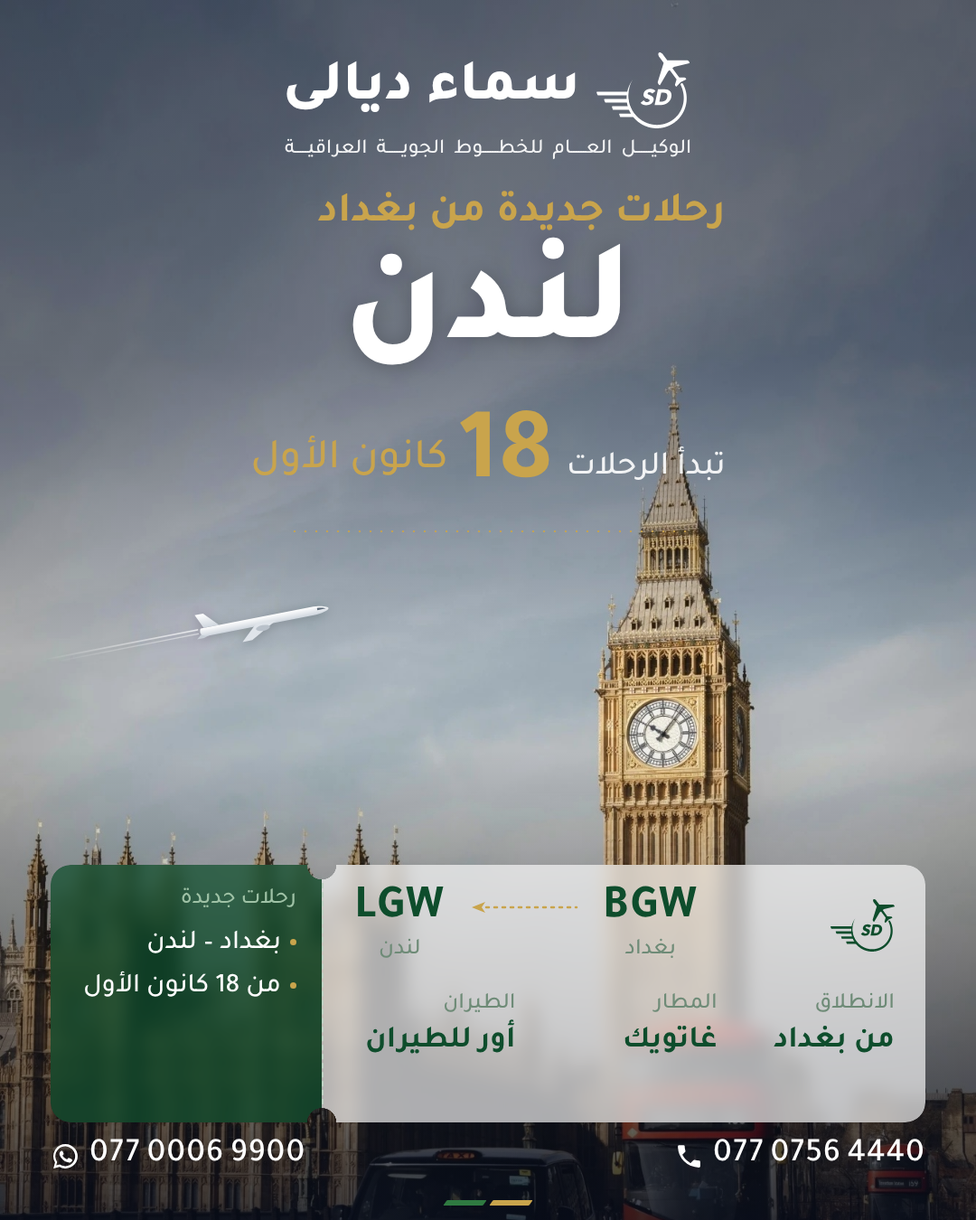
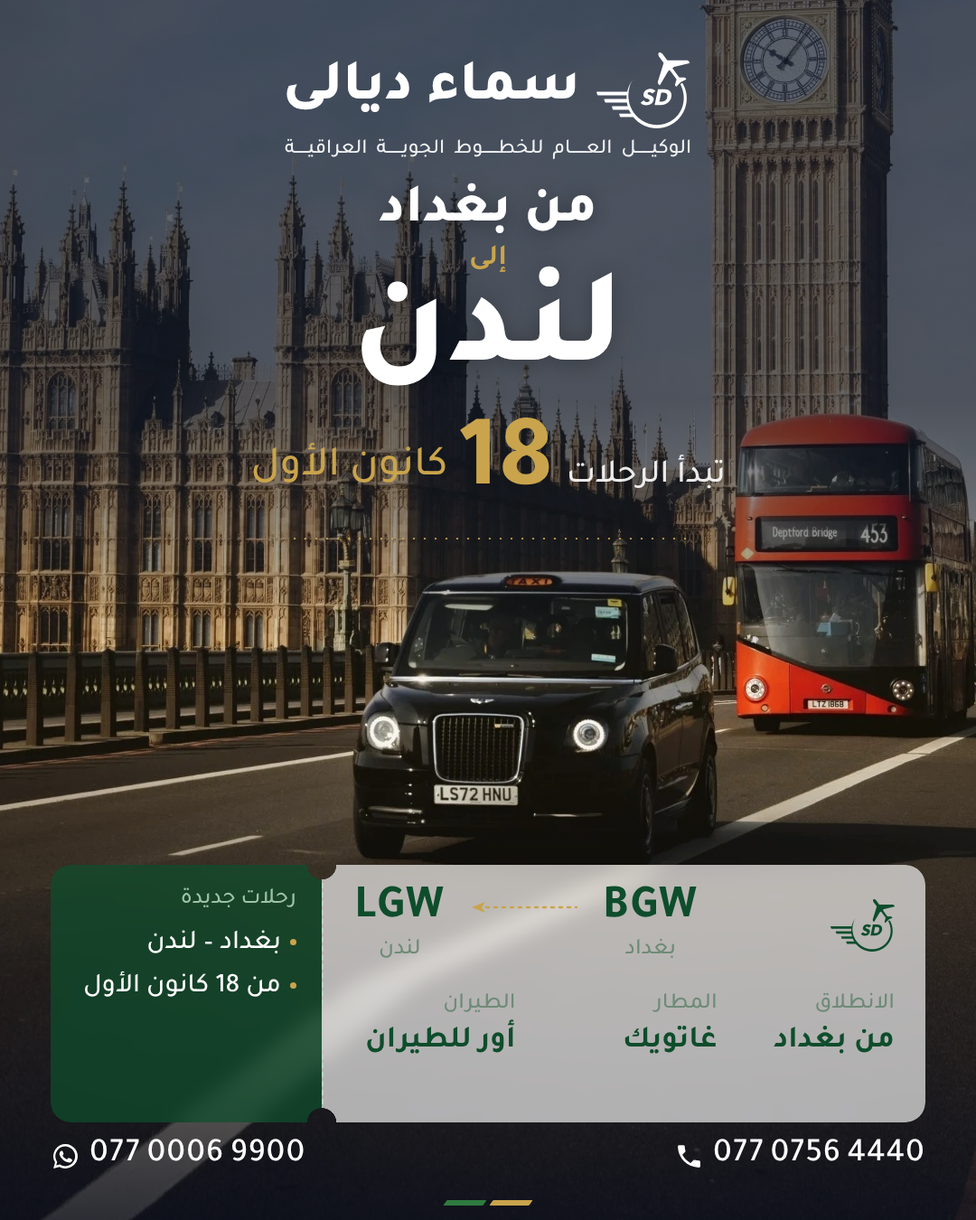
إعلان لندن: التاكسي والباص في الواجهة، ومن بغداد / إلى / لندن، بلا الطائرة المرسومة
Claude-Session: https://claude.ai/code/session_01EprWPUJDuKvYHn821imCPv

diff --git a/09-التصاميم/لندن - نظيف مع بطاقة صعود/إعلان - بيغ بن كاملاً مع طائرة مرسومة.html b/09-التصاميم/لندن - نظيف مع بطاقة صعود/إعلان - بيغ بن كاملاً مع طائرة مرسومة.html
@@ -1,0 +1,202 @@
+<!doctype html>
+<html lang="ar" dir="rtl">
+<head>
+<meta charset="utf-8">
+<title>لندن - بيغ بن</title>
+<style>
+  @font-face{font-family:Tajawal;font-weight:700;src:url("../../07-أدوات/خطوط/tajawal-arabic-800-normal.woff2");unicode-range:U+0600-06FF,U+0750-077F,U+FB50-FDFF,U+FE70-FEFF,U+200C-200E}
+  @font-face{font-family:Tajawal;font-weight:700;src:url("../../07-أدوات/خطوط/tajawal-latin-800-normal.woff2");unicode-range:U+0000-00FF,U+2000-206F}
+  @font-face{font-family:TajawalT;font-weight:400;src:url("../../07-أدوات/خطوط/tajawal-arabic-500-normal.woff2");unicode-range:U+0600-06FF,U+0750-077F,U+FB50-FDFF,U+FE70-FEFF,U+200C-200E}
+  @font-face{font-family:TajawalT;font-weight:400;src:url("../../07-أدوات/خطوط/tajawal-latin-500-normal.woff2");unicode-range:U+0000-00FF,U+2000-206F}
+  @font-face{font-family:TajawalT;font-weight:500;src:url("../../07-أدوات/خطوط/tajawal-arabic-500-normal.woff2");unicode-range:U+0600-06FF,U+0750-077F,U+FB50-FDFF,U+FE70-FEFF,U+200C-200E}
+  @font-face{font-family:TajawalT;font-weight:500;src:url("../../07-أدوات/خطوط/tajawal-latin-500-normal.woff2");unicode-range:U+0000-00FF,U+2000-206F}
+  @font-face{font-family:TajawalT;font-weight:600;src:url("../../07-أدوات/خطوط/tajawal-arabic-700-normal.woff2");unicode-range:U+0600-06FF,U+0750-077F,U+FB50-FDFF,U+FE70-FEFF,U+200C-200E}
+  @font-face{font-family:TajawalT;font-weight:600;src:url("../../07-أدوات/خطوط/tajawal-latin-700-normal.woff2");unicode-range:U+0000-00FF,U+2000-206F}
+  @font-face{font-family:TajawalT;font-weight:700;src:url("../../07-أدوات/خطوط/tajawal-arabic-800-normal.woff2");unicode-range:U+0600-06FF,U+0750-077F,U+FB50-FDFF,U+FE70-FEFF,U+200C-200E}
+  @font-face{font-family:TajawalT;font-weight:700;src:url("../../07-أدوات/خطوط/tajawal-latin-800-normal.woff2");unicode-range:U+0000-00FF,U+2000-206F}
+
+
+  :root{
+    --kick-dx:37.1px;
+    --green:#0E4D2C; --mid:#2F7A41; --gold:#C9A44C; --light:#E9F2EA; --white:#FFFFFF;
+    --ink:#FFFFFF;          /* single logo/text colour, chosen per background */
+    --accent:var(--gold);   /* price colour */
+    --img-y:0px;
+    --lock-dx:-1.9px; --name-dy:4px; --tag-size:23px; --tag-ws:0.72px; --tag-dx:0.4px;   /* header fine-tuning */
+    /* --img-y: vertical position of the photo (1080 x 1620 after scaling) */
+  }
+  *{margin:0;padding:0;box-sizing:border-box}
+  html,body{width:1080px;height:1350px;overflow:hidden;background:#0d2a3a}
+  .ad{position:relative;width:1080px;height:1350px;overflow:hidden;color:var(--ink)}
+  .photo{position:absolute;inset:0;background:url("../../08-الصور/وجهات/لندن - بيغ بن والتاكسي والباص (سماء ممدودة للإعلان).jpg") 0 0/1080px auto no-repeat}
+  .shade-top{position:absolute;inset:0 0 auto 0;height:720px;background:linear-gradient(180deg,rgba(10,20,40,.50) 0%,rgba(10,20,40,.40) 55%,rgba(10,20,40,.18) 80%,rgba(10,20,40,0) 100%)}
+  .collage{position:absolute;inset:0;display:block}
+  .shade-bot{position:absolute;inset:auto 0 0 0;height:520px;
+             background:linear-gradient(0deg,rgba(4,10,26,.78) 0%,rgba(4,10,26,.35) 55%,rgba(4,10,26,0) 100%)}
+
+  /* ---- header ---- */
+  .head{position:absolute;top:58px;left:0;right:0;display:flex;flex-direction:column;align-items:center}
+  .brand{display:inline-flex;flex-direction:column;align-items:stretch}
+  .lockup{display:flex;align-items:center;justify-content:center;gap:18px}
+  .lockup img{height:84px;display:block}
+  .lockup{transform:translateX(var(--lock-dx))}
+  .lockup .name{font-family:Tajawal;font-weight:700;font-size:64px;line-height:1;padding-bottom:8px;white-space:nowrap;
+                transform:translateY(var(--name-dy))}
+  /* tagline keeps 20px; it is stretched with kashida (+ a hair of word-spacing) to the ink width of logo + name */
+  .tag{margin:12px auto 0;width:max-content;font-family:TajawalT;font-weight:500;font-size:var(--tag-size);line-height:1.2;
+       white-space:nowrap;text-align:center;opacity:.92;word-spacing:var(--tag-ws);transform:translateX(var(--tag-dx))}
+
+  .dest{margin-top:30px;font-family:Tajawal;font-weight:700;font-size:139px;line-height:1.05;
+        text-shadow:0 2px 24px rgba(0,0,0,.25)}
+  .price{margin-top:2px;display:flex;align-items:baseline;gap:14px;color:var(--accent)}
+  .price .from{font-family:TajawalT;font-weight:500;font-size:28px;color:var(--ink);opacity:.9;align-self:center;padding-top:14px}
+  .price .num{font-family:TajawalT;font-weight:600;font-size:113px;line-height:1;direction:ltr;letter-spacing:1px}
+  .price .cur{font-family:TajawalT;font-weight:500;font-size:35px;position:relative;top:-10px}
+  .airline{margin-top:10px;font-family:TajawalT;font-weight:500;font-size:26px;opacity:.92;display:flex;align-items:center;gap:14px;white-space:nowrap}
+  .airline::before,.airline::after{content:"";width:46px;height:1px;background:currentColor;opacity:.6}
+  .kicker{width:max-content;transform:translateX(var(--kick-dx,212px));margin-top:44px;font-family:TajawalT;font-weight:500;font-size:35px;line-height:1.2;color:var(--gold);letter-spacing:.5px}
+  .kicker + .dest{margin-top:10px}
+  /* boarding pass at the bottom */
+  .pass{position:absolute;left:56px;right:56px;bottom:108px;height:226px;display:flex;direction:rtl;
+        filter:none}
+  .pass .main{flex:1;background:rgba(255,255,255,.66);backdrop-filter:blur(10px) saturate(1.1);-webkit-backdrop-filter:blur(10px);border-radius:0 22px 22px 0;padding:24px 34px 22px;color:var(--green);position:relative;border-left:2.5px dashed #BFD2C4;
+     -webkit-mask:radial-gradient(circle at 0 0,transparent 16px,#000 16.5px) top/100% 51% no-repeat,radial-gradient(circle at 0 100%,transparent 16px,#000 16.5px) bottom/100% 51% no-repeat}
+  .pass .stubx{width:300px;background:rgba(14,77,44,.72);backdrop-filter:blur(10px);-webkit-backdrop-filter:blur(10px);border-radius:22px 0 0 22px;padding:24px 28px;color:#FFFFFF;position:relative;
+     -webkit-mask:radial-gradient(circle at 100% 0,transparent 16px,#000 16.5px) top/100% 51% no-repeat,radial-gradient(circle at 100% 100%,transparent 16px,#000 16.5px) bottom/100% 51% no-repeat}
+  .pass .cut{width:0;position:relative;border-right:2.5px dashed #BFD2C4;background:#fff}
+  .pass .cut::before,.pass .cut::after{content:"";position:absolute;right:-17px;width:32px;height:32px;border-radius:50%;background:#2a2a35}
+  .pass .cut::before{top:-16px} .pass .cut::after{bottom:-16px}
+  .row1{display:flex;align-items:center;justify-content:space-between}
+  .bplogo{height:58px;display:block}
+  .bp{display:inline-flex;align-items:center;gap:8px;background:var(--green);color:#fff;border-radius:999px;padding:6px 16px 8px;font-family:TajawalT;font-weight:500;font-size:21px}
+  .bp svg{width:17px;height:17px;color:var(--gold)}
+  .route{display:flex;align-items:flex-start;gap:16px;direction:ltr}
+  .route .code{font-family:TajawalT;font-weight:600;font-size:45px;letter-spacing:2px;line-height:1}
+  .route .city{font-family:TajawalT;font-size:19px;color:#6E8B77;margin-top:4px;text-align:center;direction:rtl}
+  .route svg{margin-top:13px;width:120px;height:14px}
+  .fields{margin-top:26px;display:grid;grid-template-columns:1fr 1.15fr 1fr;gap:18px}
+  .f .k{font-family:TajawalT;font-size:19px;color:#6E8B77;margin-bottom:4px}
+  .f .v .sub{display:block;font-weight:500;font-size:21px;color:#3E6B4C}
+  .f .v{font-family:TajawalT;font-weight:600;font-size:26px;line-height:1.3;white-space:nowrap}
+  .stubx .k{font-family:TajawalT;font-size:19px;color:#9FC2A6;margin-bottom:10px}
+  .stubx ul{list-style:none;font-family:TajawalT;font-weight:500;font-size:22px;line-height:1.55}
+  .stubx li::before{content:"";display:inline-block;width:7px;height:7px;border-radius:50%;background:var(--gold);margin-left:10px;vertical-align:middle}
+  .perf{margin-top:20px;width:440px;height:2px;
+        background-image:radial-gradient(circle,rgba(201,164,76,.85) 1.2px,transparent 1.6px);
+        background-size:12px 2px;background-repeat:repeat-x}
+
+  /* ---- footer ---- */
+  .foot{position:absolute;left:56px;right:56px;bottom:46px;color:#fff;display:flex;align-items:flex-end;justify-content:space-between}
+  .dur .from{font-family:TajawalT;font-weight:500;font-size:22px;opacity:.85;display:block;margin-bottom:2px}
+  .dur .val{font-family:TajawalT;font-weight:600;font-size:38px;line-height:1.2;white-space:nowrap}
+  .stripes{position:absolute;left:50%;bottom:16px;transform:translateX(-50%);display:flex;gap:7px}
+  .stripes i{display:block;width:44px;height:6px;transform:skewX(-35deg);border-radius:1px}
+  .stripes i:nth-child(1){background:var(--gold)} .stripes i:nth-child(2){background:var(--mid)}
+  .wa{display:flex;align-items:center;gap:10px;direction:ltr;padding-bottom:3px}
+  .wa .ph{word-spacing:-3px}
+  .wa svg{width:28px;height:28px;flex:none}
+  .wa span{font-family:TajawalT;font-weight:500;font-size:30px;letter-spacing:1px}
+  .dest{font-size:160px !important;line-height:1.05 !important;margin-top:0 !important}
+  .kicker{margin-top:30px !important;font-weight:600 !important}
+  .price{margin-top:34px !important}
+  /* bigger text throughout (header lockup and 20px agent line stay as measured) */
+  .kicker{font-size:47px !important}
+  .price .from{font-size:37px !important;padding-top:18px !important}
+  .price .cur{font-size:47px !important}
+  .pass{height:262px !important}
+  .route{gap:12px !important}
+  .route .code{font-size:52px !important}
+  .route .city{font-size:25px !important}
+  .route svg{width:78px !important;margin-top:16px !important}
+  .fields{margin-top:30px !important}
+  .f .k{font-size:25px !important}
+  .f .v{font-size:34px !important}
+  .stubx .k{font-size:25px !important}
+  .stubx ul{font-size:30px !important;line-height:1.6 !important}
+  .wa span{font-size:37px !important}
+  .wa svg{width:33px !important;height:33px !important}
+  .tag{margin-top:10px !important}
+  .price{margin-top:20px !important}
+  .pass{height:285px !important}
+  .plane{position:absolute;left:40px;top:650px;width:330px;height:auto;filter:drop-shadow(0 2px 6px rgba(0,0,0,.18))}
+</style>
+</head>
+<body>
+<div class="ad">
+  <div class="photo"></div>
+  <div class="shade-top"></div>
+
+  <div class="shade-bot"></div>
+  <svg class="plane" viewBox="0 0 420 120" aria-hidden="true">
+    <defs><linearGradient id="trail" x1="0" y1="0" x2="1" y2="0"><stop offset="0" stop-color="#fff" stop-opacity="0"/><stop offset="1" stop-color="#fff" stop-opacity=".75"/></linearGradient>
+      <linearGradient id="body" x1="0" y1="0" x2="0" y2="1"><stop offset="0" stop-color="#ffffff"/><stop offset="1" stop-color="#cfd6de"/></linearGradient></defs>
+    <g transform="rotate(-11 210 60)">
+      <rect x="0" y="62" width="228" height="2.2" rx="1" fill="url(#trail)"/>
+      <rect x="20" y="68" width="208" height="1.6" rx="1" fill="url(#trail)" opacity=".7"/>
+      <g transform="translate(222 40)">
+        <path d="M14 22 L5 2 L17 2 L36 22 Z" fill="url(#body)"/>
+        <path d="M12 28 L2 36 L12 36 L32 30 Z" fill="#c7ced6"/>
+        <path d="M10 22 H168 C182 22 192 26 192 28 C192 31 182 34 168 34 H18 C12 34 8 31 8 28 C8 25 9 22 10 22 Z" fill="url(#body)"/>
+        <path d="M88 30 L64 52 L78 52 L116 31 Z" fill="#dfe4ea"/>
+        <ellipse cx="96" cy="38" rx="10" ry="4" fill="#b9c1ca"/>
+        <path d="M176 25 C182 25.5 186 26.5 188 28 L176 28 Z" fill="#5d6b7a"/>
+      </g>
+    </g>
+  </svg>
+
+
+  <div class="head">
+    <div class="brand" id="brand">
+      <div class="lockup" id="lockup">
+        <img src="../../01-الشعار/أحادي بلا الاسم الصغير/الرمز - أبيض.svg" alt="">
+        <div class="name">سماء ديالى</div>
+      </div>
+      <div class="tag" id="tag">الوكيــــــل العــــــام للخطــــــوط الجويــــــة العراقيـــــة</div>
+    </div>
+    <div class="kicker">رحلات جديدة من بغداد</div>
+    <div class="dest">لندن</div>
+    <div class="price">
+      <span class="from">تبدأ الرحلات</span>
+      <span class="num">18</span>
+      <span class="cur">كانون الأول</span>
+    </div>
+    <div class="perf"></div>
+  </div>
+
+  <div class="foot">
+    <div class="wa"><svg viewBox="0 0 24 24" fill="#fff" aria-hidden="true"><path d="M6.6 10.8a15.1 15.1 0 0 0 6.6 6.6l2.2-2.2a1 1 0 0 1 1-.25 11.4 11.4 0 0 0 3.6.57 1 1 0 0 1 1 1V20a1 1 0 0 1-1 1A17 17 0 0 1 3 4a1 1 0 0 1 1-1h3.5a1 1 0 0 1 1 1c0 1.25.2 2.45.57 3.57a1 1 0 0 1-.25 1z"/></svg><span class="ph">077 0756 4440</span></div>
+    <div class="wa">
+      <svg viewBox="0 0 32 32" fill="#fff" aria-hidden="true"><path d="M16 3a13 13 0 0 0-11.2 19.6L3 29l6.6-1.7A13 13 0 1 0 16 3zm0 23.6c-2 0-4-.5-5.7-1.6l-.4-.2-3.9 1 1-3.8-.3-.4A10.6 10.6 0 1 1 16 26.6zm5.8-7.9c-.3-.2-1.9-.9-2.2-1-.3-.1-.5-.2-.7.2l-1 1.2c-.2.2-.4.2-.7.1a8.7 8.7 0 0 1-4.3-3.8c-.3-.6.3-.5 1-1.7.1-.2 0-.4 0-.6l-1-2.4c-.3-.6-.5-.5-.7-.5h-.6c-.2 0-.6.1-.9.4-.3.3-1.2 1.1-1.2 2.8s1.2 3.2 1.4 3.5c.2.2 2.4 3.6 5.8 5 2.1.9 3 1 4 .8.7-.1 1.9-.8 2.2-1.6.3-.8.3-1.4.2-1.6-.1-.1-.3-.2-.6-.3z"/></svg>
+      <span class="ph">077 0006 9900</span>
+    </div>
+  </div>
+  <div class="pass">
+    <div class="main">
+      <div class="row1">
+        <img class="bplogo" src="../../01-الشعار/أحادي بلا الاسم الصغير/الرمز - أخضر.svg" alt="">
+        <div class="route">
+          <div><div class="code">LGW</div><div class="city">لندن</div></div>
+          <svg viewBox="0 0 120 14" style="width:150px !important"><line x1="18" y1="7" x2="118" y2="7" stroke="#C9A44C" stroke-width="2.5" stroke-dasharray="3 6" stroke-linecap="round"/><path d="M2 7 L17 1 L13 7 L17 13 Z" fill="#C9A44C"/></svg>
+          <div><div class="code">BGW</div><div class="city">بغداد</div></div>
+        </div>
+      </div>
+      <div class="fields">
+        <div class="f"><div class="k">الانطلاق</div><div class="v">من بغداد</div></div>
+        <div class="f"><div class="k">المطار</div><div class="v">غاتويك</div></div>
+        <div class="f"><div class="k">الطيران</div><div class="v">أور للطيران</div></div>
+      </div>
+    </div>
+    <div class="stubx">
+      <div class="k">رحلات جديدة</div>
+      <ul><li>بغداد – لندن</li><li>من 18 كانون الأول</li></ul>
+    </div>
+  </div>
+  <div class="stripes"><i></i><i></i></div>
+</div>
+<script>
+document.fonts.ready.then(()=>{const t=document.getElementById('tag'),l=document.getElementById('lockup');
+ t.style.transform='none'; let ws=0; for(let i=0;i<60;i++){const d=l.getBoundingClientRect().width-t.getBoundingClientRect().width; if(Math.abs(d)<0.5)break; ws+=d/5*0.9; t.style.wordSpacing=ws+'px';}
+ document.body.dataset.ready='1'});
+</script>
+</body>
+</html>

diff --git a/09-التصاميم/لندن - نظيف مع بطاقة صعود/إعلان.html b/09-التصاميم/لندن - نظيف مع بطاقة صعود/إعلان.html
@@ -28,8 +28,8 @@
   *{margin:0;padding:0;box-sizing:border-box}
   html,body{width:1080px;height:1350px;overflow:hidden;background:#0d2a3a}
   .ad{position:relative;width:1080px;height:1350px;overflow:hidden;color:var(--ink)}
-  .photo{position:absolute;inset:0;background:url("../../08-الصور/وجهات/لندن - بيغ بن والتاكسي والباص (سماء ممدودة للإعلان).jpg") 0 0/1080px auto no-repeat}
-  .shade-top{position:absolute;inset:0 0 auto 0;height:720px;background:linear-gradient(180deg,rgba(10,20,40,.50) 0%,rgba(10,20,40,.40) 55%,rgba(10,20,40,.18) 80%,rgba(10,20,40,0) 100%)}
+  .photo{position:absolute;inset:0;background:url("../../08-الصور/وجهات/لندن - بيغ بن والتاكسي والباص (طريق ممدود للإعلان).jpg") -38px -752px/1335px auto no-repeat}
+  .shade-top{position:absolute;inset:0 0 auto 0;height:760px;background:linear-gradient(180deg,rgba(10,20,40,.66) 0%,rgba(10,20,40,.62) 58%,rgba(10,20,40,.42) 76%,rgba(10,20,40,0) 100%)}
   .collage{position:absolute;inset:0;display:block}
   .shade-bot{position:absolute;inset:auto 0 0 0;height:520px;
              background:linear-gradient(0deg,rgba(4,10,26,.78) 0%,rgba(4,10,26,.35) 55%,rgba(4,10,26,0) 100%)}
@@ -119,6 +119,10 @@
   .price{margin-top:20px !important}
   .pass{height:285px !important}
   .plane{position:absolute;left:40px;top:650px;width:330px;height:auto;filter:drop-shadow(0 2px 6px rgba(0,0,0,.18))}
+  .kicker{transform:none !important;font-size:32px !important;margin-top:2px !important;line-height:1.1 !important}
+  .fromc{margin-top:22px;font-family:Tajawal;font-weight:700;font-size:60px;line-height:1.1;text-shadow:0 2px 20px rgba(0,0,0,.3)}
+  .dest{font-size:150px !important;margin-top:-6px !important}
+  .price{margin-top:6px !important}
 </style>
 </head>
 <body>
@@ -127,22 +131,6 @@
   <div class="shade-top"></div>
 
   <div class="shade-bot"></div>
-  <svg class="plane" viewBox="0 0 420 120" aria-hidden="true">
-    <defs><linearGradient id="trail" x1="0" y1="0" x2="1" y2="0"><stop offset="0" stop-color="#fff" stop-opacity="0"/><stop offset="1" stop-color="#fff" stop-opacity=".75"/></linearGradient>
-      <linearGradient id="body" x1="0" y1="0" x2="0" y2="1"><stop offset="0" stop-color="#ffffff"/><stop offset="1" stop-color="#cfd6de"/></linearGradient></defs>
-    <g transform="rotate(-11 210 60)">
-      <rect x="0" y="62" width="228" height="2.2" rx="1" fill="url(#trail)"/>
-      <rect x="20" y="68" width="208" height="1.6" rx="1" fill="url(#trail)" opacity=".7"/>
-      <g transform="translate(222 40)">
-        <path d="M14 22 L5 2 L17 2 L36 22 Z" fill="url(#body)"/>
-        <path d="M12 28 L2 36 L12 36 L32 30 Z" fill="#c7ced6"/>
-        <path d="M10 22 H168 C182 22 192 26 192 28 C192 31 182 34 168 34 H18 C12 34 8 31 8 28 C8 25 9 22 10 22 Z" fill="url(#body)"/>
-        <path d="M88 30 L64 52 L78 52 L116 31 Z" fill="#dfe4ea"/>
-        <ellipse cx="96" cy="38" rx="10" ry="4" fill="#b9c1ca"/>
-        <path d="M176 25 C182 25.5 186 26.5 188 28 L176 28 Z" fill="#5d6b7a"/>
-      </g>
-    </g>
-  </svg>
 
 
   <div class="head">
@@ -153,7 +141,8 @@
       </div>
       <div class="tag" id="tag">الوكيــــــل العــــــام للخطــــــوط الجويــــــة العراقيـــــة</div>
     </div>
-    <div class="kicker">رحلات جديدة من بغداد</div>
+    <div class="fromc">من بغداد</div>
+    <div class="kicker">إلى</div>
     <div class="dest">لندن</div>
     <div class="price">
       <span class="from">تبدأ الرحلات</span>

diff --git a/CLAUDE.md b/CLAUDE.md
@@ -84,7 +84,7 @@
 - عرض تذاكر "دبي من أربيل" (23 تشرين الثاني 2026، بسعر عرض منافس أعطاه إحسان 299,000 د.ع ذهاب وإياب): `09-التصاميم/دبي من أربيل - نظيف مع بطاقة صعود/`. الصورة المعتمدة برج خليفة عند الغروب (`08-الصور/وجهات/دبي - برج خليفة عند الغروب (الأصل).jpg`) مؤطّرة من الأسفل لتظهر معالم المدينة، ويُقص أعلى البرج (بطلب إحسان)، وتظليل بنفسجي داكن أعلى الصورة يجعل السعر الذهبي واضحاً بلا حد، وبين "دبي" والسعر مسافة 34px. ترويسة بيضاء وسطر علوي ذهبي. نسختا مرسى دبي (`إعلان - مرسى دبي.html`) والكولاج بصورتين (`إعلان - كولاج صورتين.html`) محفوظتان. السطر فوق الوجهة "أربيل – دبي – أربيل"، والمسار في البطاقة EBL ← DXB ← EBL، والكعب "ذهاب وإياب" و"أربيل – دبي – أربيل"، والخطوط مكبّرة في كل الإعلان عدا الترويسة المقاسة. فيه رقمان: 077 0006 9900 بواتساب يساراً، و077 0756 4440 بأيقونة هاتف يميناً (بلا +964). والستوري 1080×1920 بخط تجوال: `09-التصاميم/دبي من أربيل - ستوري/` (الصورة تغطي الإطار من الأسفل، والترويسة top:230، والبطاقة bottom:340، والرقمان bottom:268).
 
 - عرض تذاكر "بغداد – بيروت – بغداد" (24 تشرين الثاني 2026، تذكرة فقط ذهاب وإياب بسعر أعطاه إحسان 415,000 د.ع): `09-التصاميم/بغداد بيروت بغداد - نظيف مع بطاقة صعود/` والستوري `09-التصاميم/بغداد بيروت بغداد - ستوري/`، من قالب دبي من أربيل. الصورة طائرة العراقية منعكسة على زجاج مطار بيروت (`08-الصور/وجهات/بيروت - طائرة العراقية في زجاج المطار (عمودية للستوري).jpg`، صورة عمودية بدقة 768 فقط، والبوست منها أيضاً لأن سماءها أوسع)، والطائرة بين خط التخريم والبطاقة. ترويسة بيضاء وسعر ذهبي. المسار BGW ← BEY ← BGW، والخانات: الرحلة ذهاب وإياب، الانطلاق من بغداد، الطيران العراقية (بانتظار تأكيد إحسان أن الطيران واحد).
-- خبر رحلات "بغداد – لندن" على أور للطيران (25 تشرين الثاني 2026، تبدأ 18 كانون الأول إلى مطار غاتويك LGW، بلا سعر حتى الآن): `09-التصاميم/لندن - نظيف مع بطاقة صعود/`، من قالب دبي بخط تجوال. المعتمد بطلب إحسان صورة بيغ بن مع التاكسي والباص على جسر وستمنستر، بسماء ممدودة للأعلى 185 بكسل من المصدر (`08-الصور/وجهات/لندن - بيغ بن والتاكسي والباص (سماء ممدودة للإعلان).jpg`) حتى تبدأ الساعة تحت خط التخريم، وترويسة بيضاء وتاريخ ذهبي فوق تظليل كحلي، وطائرة صغيرة مرسومة (SVG بلا شعار شركة، لأن الرحلة على أور) تحلّق يسار البرج بخط دخان. نسختا الباص الأحمر (`إعلان - صورة الباص.html`) والتاكسي (`إعلان - صورة التاكسي.html`) محفوظتان. نسخة الكولاج من 3 صور (تاور بريدج، بيغ بن، عين لندن) محفوظة في `إعلان - كولاج 3 صور.html` (والسماء من صورة عين لندن، وحافة الكولاج 670). السطر العلوي "رحلات جديدة من بغداد"، ومكان السعر "تبدأ الرحلات 18 كانون الأول"، والمسار BGW ← LGW، والخانات: الانطلاق من بغداد، المطار غاتويك، الطيران أور للطيران. لا يُستخدم شعار أور ولا صورة إعلانهم، ولا تُكتب "مباشرة" قبل التأكد.
+- خبر رحلات "بغداد – لندن" على أور للطيران (25 تشرين الثاني 2026، تبدأ 18 كانون الأول إلى مطار غاتويك LGW، بلا سعر حتى الآن): `09-التصاميم/لندن - نظيف مع بطاقة صعود/`، من قالب دبي بخط تجوال. المعتمد بطلب إحسان صورة بيغ بن مع التاكسي والباص على جسر وستمنستر، والتاكسي والباص هما العنصران الرئيسيان (بطلبه): الصورة بعرضها 1335px وطريق ممدود للأسفل (`08-الصور/وجهات/لندن - بيغ بن والتاكسي والباص (طريق ممدود للإعلان).jpg`) بإزاحة -38px -752px، فيظهر التاكسي والباص كاملين فوق البطاقة والساعة في الزاوية العليا اليمنى. النص: "من بغداد" (60px)، ثم "إلى" صغيرة بالذهبي، ثم "لندن" (150px)، ثم "تبدأ الرحلات 18 كانون الأول"، فوق تظليل كحلي. رفض إحسان الطائرة المرسومة وطلب طائرة واقعية (بانتظار صورة بلا ألوان العراقية، لأن الرحلة على أور)؛ نسخة البرج كاملاً مع الطائرة المرسومة في `إعلان - بيغ بن كاملاً مع طائرة مرسومة.html`. نسختا الباص الأحمر (`إعلان - صورة الباص.html`) والتاكسي (`إعلان - صورة التاكسي.html`) محفوظتان. نسخة الكولاج من 3 صور (تاور بريدج، بيغ بن، عين لندن) محفوظة في `إعلان - كولاج 3 صور.html` (والسماء من صورة عين لندن، وحافة الكولاج 670). السطر العلوي "رحلات جديدة من بغداد"، ومكان السعر "تبدأ الرحلات 18 كانون الأول"، والمسار BGW ← LGW، والخانات: الانطلاق من بغداد، المطار غاتويك، الطيران أور للطيران. لا يُستخدم شعار أور ولا صورة إعلانهم، ولا تُكتب "مباشرة" قبل التأكد.
 - رحلة بحرية من إسطنبول (24 تشرين الثاني 2026): `09-التصاميم/رحلة بحرية من إسطنبول - نظيف مع بطاقة صعود/` (فيه ملفا المصدر: خط السير وأسعار الكابينات بالدولار، والأسعار للكابينة كاملة لا للشخص، وعنوان ملف الأسعار فيه B2B). سفينة أرويا، 8 أيام / 7 ليالٍ: إسطنبول، يوم بالبحر، الإسكندرية (مبيت)، مرمريس، كوشاداسي، يوم بالبحر، إسطنبول. السعر بطلب إحسان: أقل كابينة لشخصين (داخلية 1,066$) ÷ 2 = 533$، + 30$ = 563$ × 1,710 = 962,730، وقرّبه إحسان إلى 960,000 د.ع للشخص (رحلات 5 و19 كانون الأول؛ رحلة 28 تشرين الثاني بالسعر نفسه لم تُذكر لقربها). الصورة يخت بين جزر خليج ها لونغ (فيتنام) عند الغروب، واسم الكروز "على متن أرويا كروز" في كعب البطاقة الأخضر (بطلب إحسان)، والسطر العلوي "انطلاقاً من إسطنبول". ترويسة خضراء وسعر بالذهبي الغامق. كعب البطاقة "تفاصيل الرحلة": على متن أرويا كروز، 7 ليالٍ على السفينة، مبيت بالإسكندرية، يومان بالبحر، السعر للشخص. نوع الكابينة وعدد من فيها لا يُكتبان في الإعلان ولا النص (بطلب إحسان: المسافر يعرفها عند الاتصال). ونسخة لرحلة 28 تشرين الثاني فيها حفلة نانسي عجرم على السفينة: `09-التصاميم/رحلة بحرية - حفلة نانسي عجرم - نظيف مع بطاقة صعود/`، السطر العلوي "حفلة نانسي عجرم على متن السفينة السياحية" (في المنتصف)، وسعران بدل السعر الواحد تحت "ابتداءً من": للشخص الواحد 1,225,000 د.ع (688$ + 30 = 718$ × 1,710 = 1,227,780، قرّبه إحسان) ولشخصين 1,900,000 د.ع (1,066$ + 50 = 1,116$ × 1,710 = 1,908,360، قرّبه إحسان)، بينهما فاصل ذهبي. وصورتها (أرسلها إحسان، `08-الصور/نانسي عجرم - على المسرح (أرسلها إحسان).jpg`) في لوح مائل صغير بإطار ذهبي يمين الصورة فوق البطاقة، والكعب: على متن أرويا كروز، حفلة نانسي عجرم، مبيت بالإسكندرية، نحجز تذكرة طيرانك، يومان بالبحر.
 
 ## التسليم (من 19 تشرين الثاني 2026)
